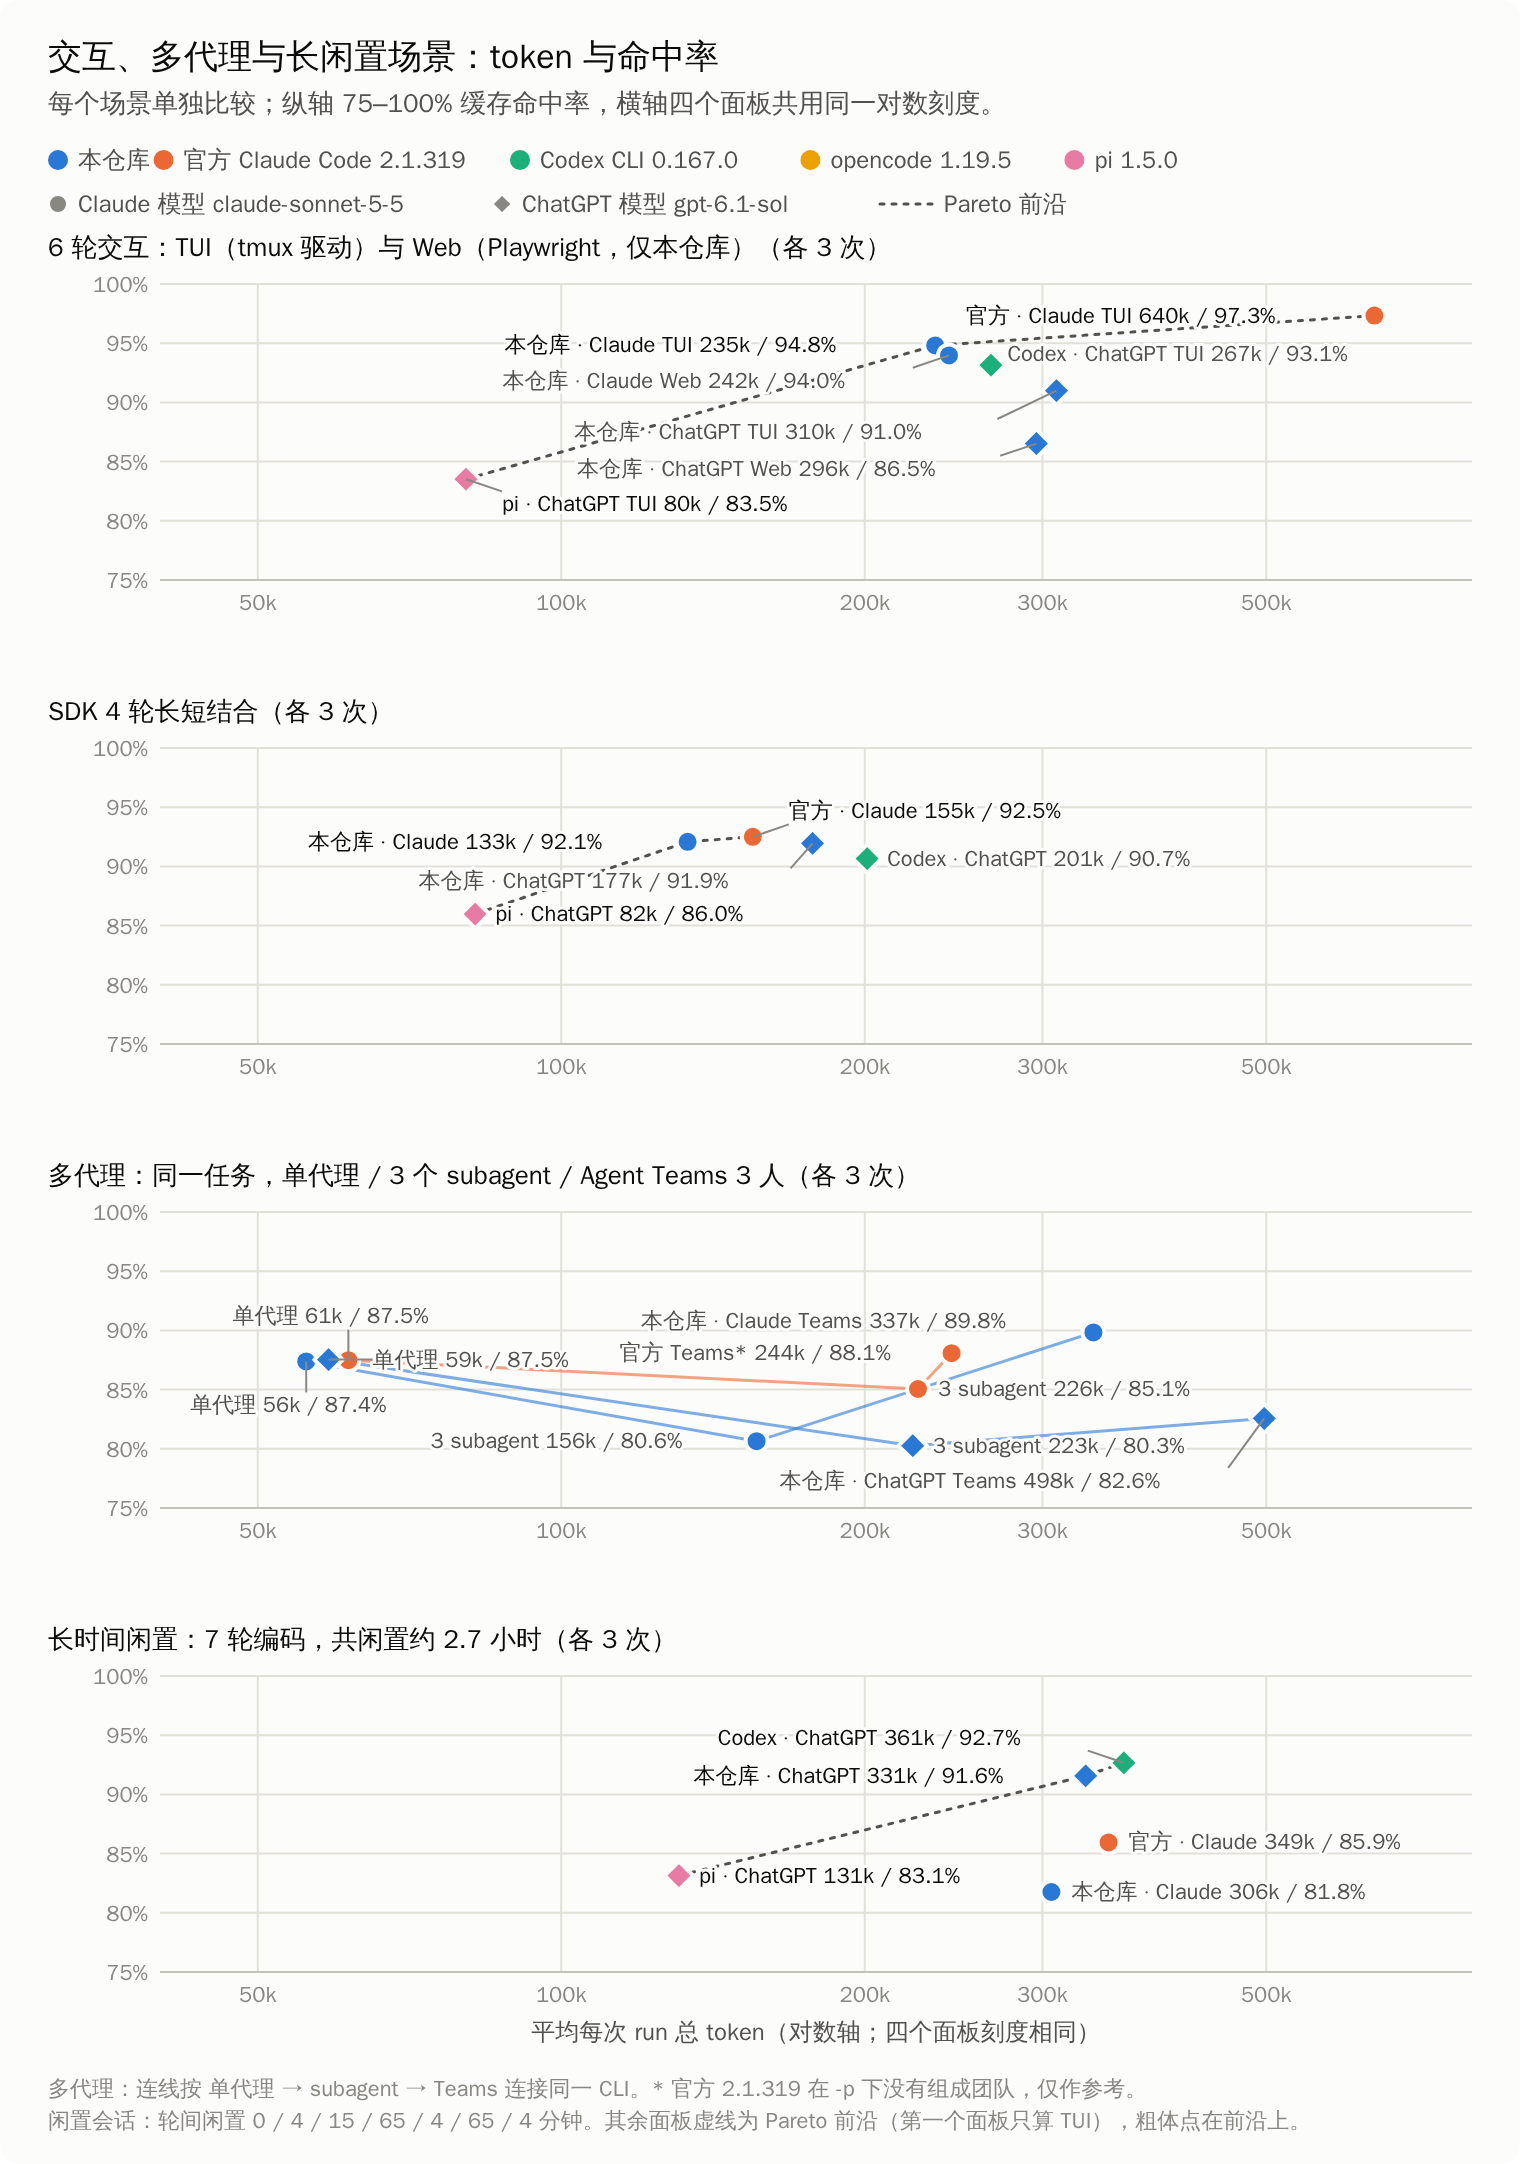
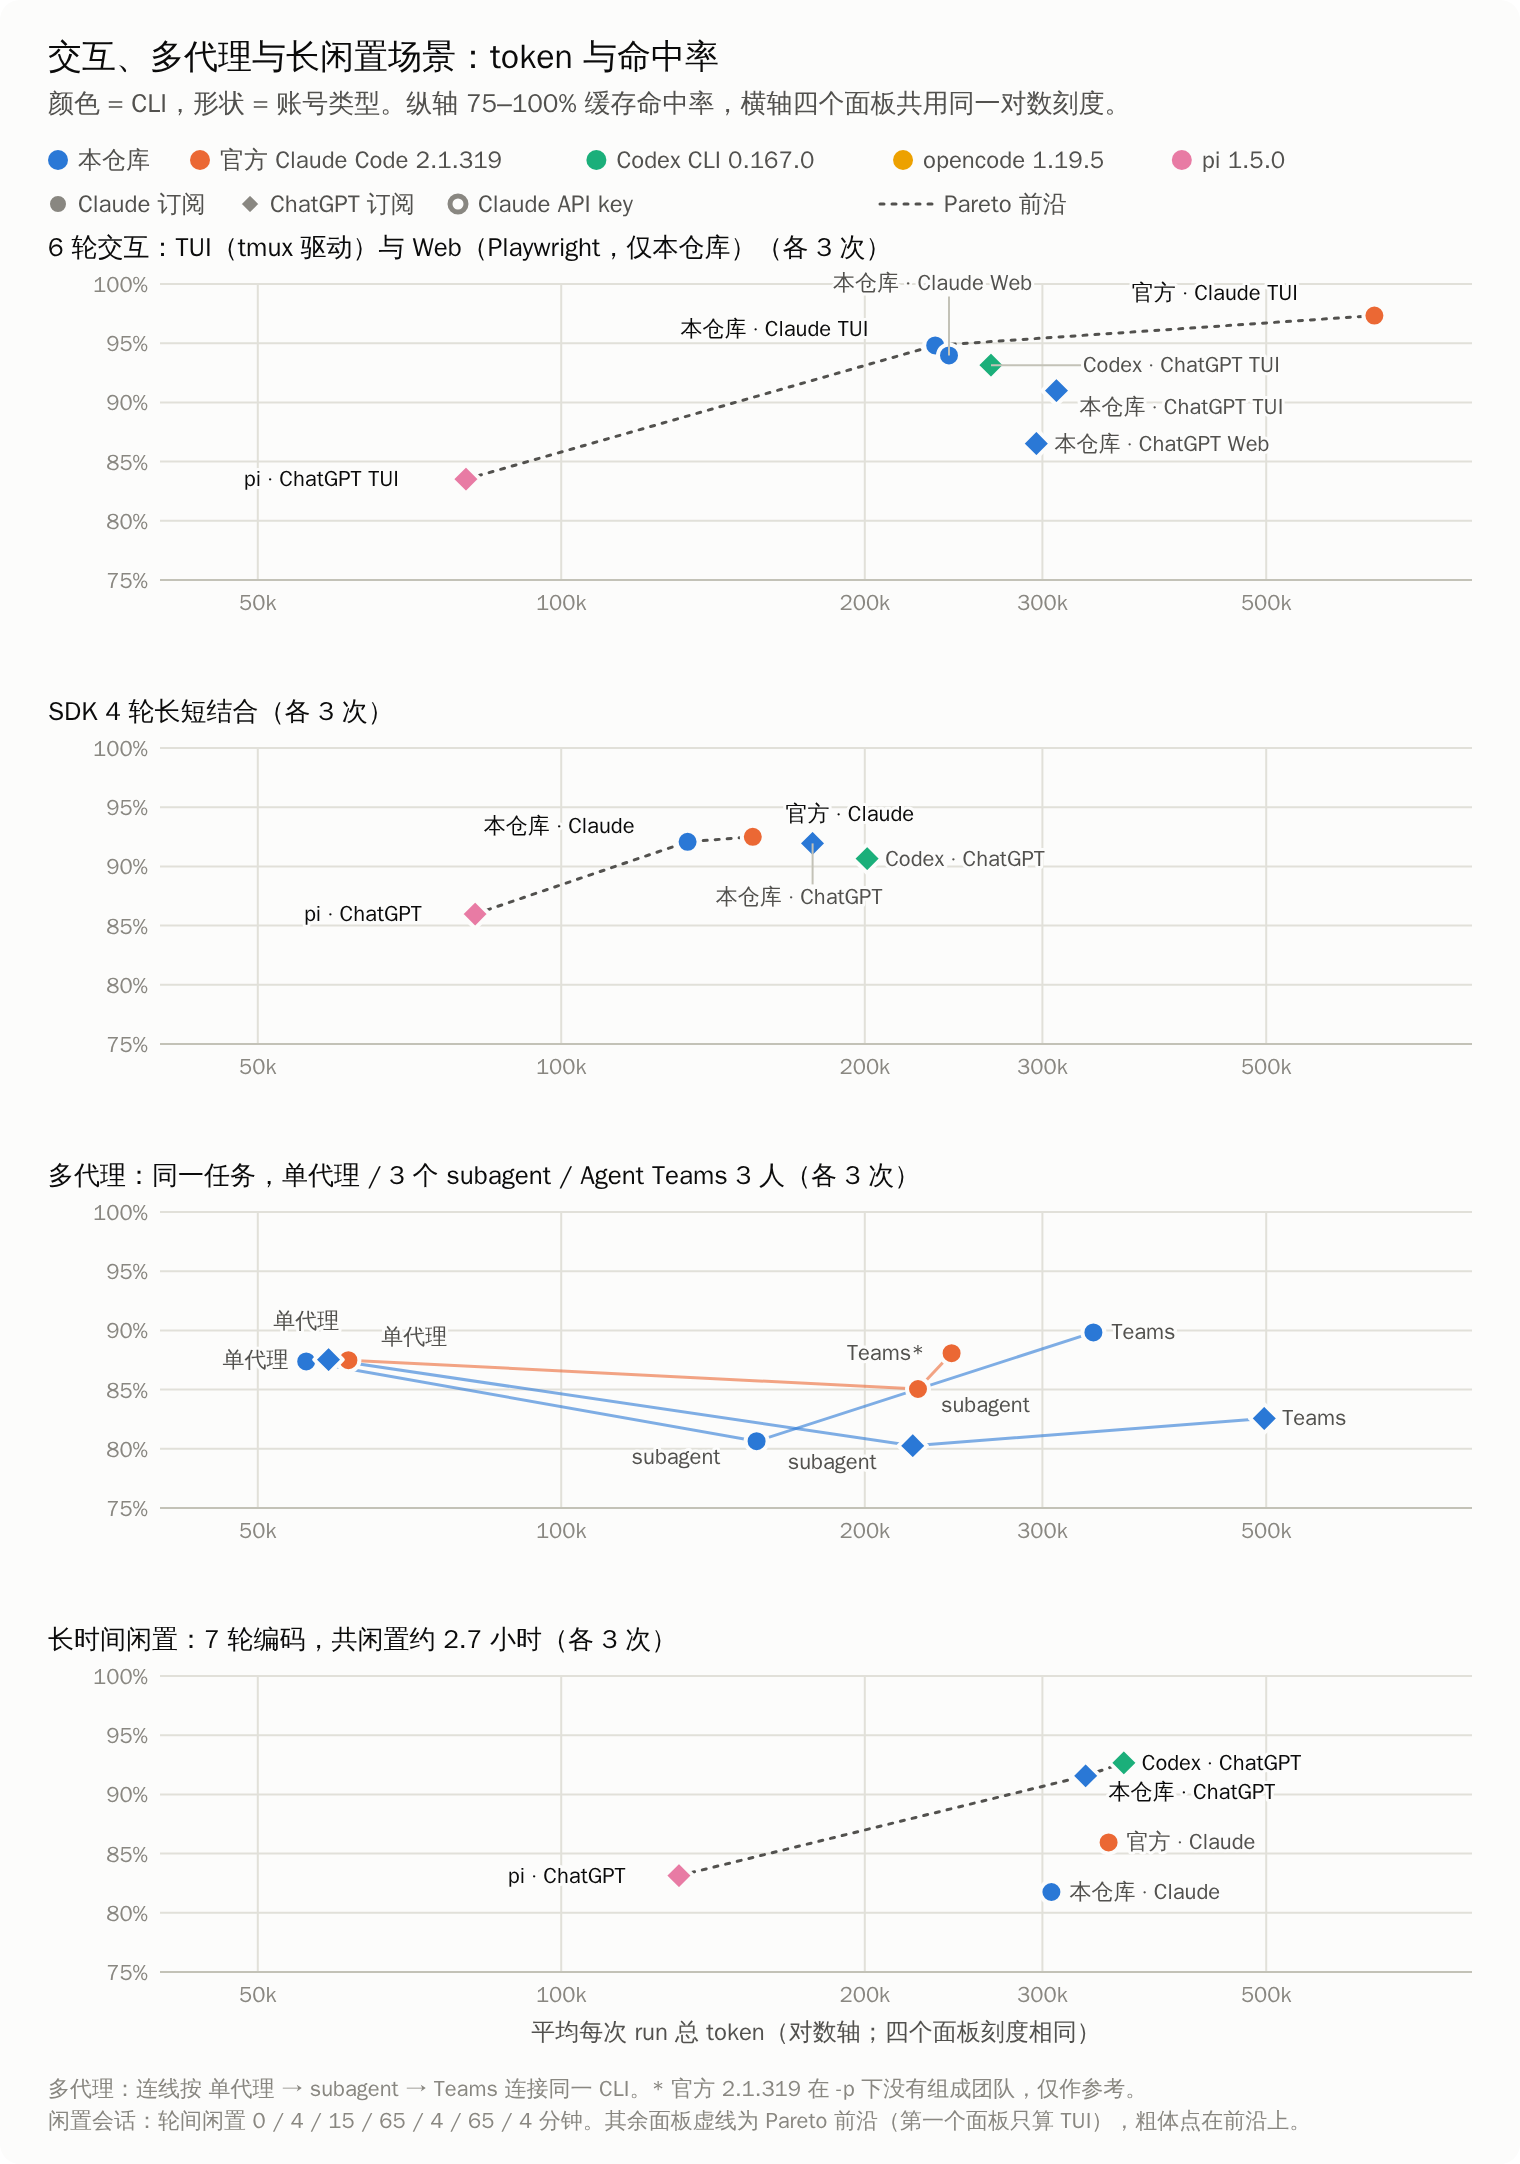
docs(cache-benchmark): short labels, account-type shapes, by-type scatter

diff --git a/docs/features/cache-benchmark.md b/docs/features/cache-benchmark.md
@@ -103,12 +103,21 @@ pi 与 opencode 另用 Claude API key 跑了一组 `claude-sonnet-5-5`（见第 
 
 横轴是每任务平均总 token（对数轴，越左越省），纵轴是按 token 加权的缓存命中率（越高越好），左上角最好。只看命中率会奖励把大段前缀放进缓存的做法，只看 token 又看不出缓存帮了多少，两项放在一起才能看出谁在「少用」和「多复用」上都占优。两种模型的价格表不同，所以横轴用 token，不用花费；Claude 侧的 API 等价花费见第 1 节表格。
 
+颜色区分 CLI，形状区分账号类型：实心圆 = Claude 订阅（OAuth），菱形 = ChatGPT 订阅（OAuth），空心圆 = Claude API key。Claude 订阅与 API key 都用 `claude-sonnet-5-5`，ChatGPT 订阅用 `gpt-6.1-sol`。
+
 ![每任务 token 与缓存命中率：8 个 CLI × 账号的散点，含 5 类任务的分项点、Pareto 前沿与更优区域](images/cache-benchmark/tokens-vs-hit-light.png#gh-light-mode-only)
 ![每任务 token 与缓存命中率：8 个 CLI × 账号的散点，含 5 类任务的分项点、Pareto 前沿与更优区域](images/cache-benchmark/tokens-vs-hit-dark.png#gh-dark-mode-only)
 
 - 前沿上的 5 个点：pi（Claude）21k / 73.4%、pi（ChatGPT）37k / 84.0%、本仓库（Claude）73k / 87.1%、Codex 80k / 88.8%、opencode（ChatGPT）82k / 89.2%。
 - 更优区域（token 不高于中位数且命中率不低于中位数）里是本仓库 Claude 账号、本仓库 ChatGPT 账号（在边界上）和 Codex；官方 81k / 87.3% 被 Codex 在两项上同时略微超过，但差距都在噪声范围内。
 - pi 的提示只有约 2.7k，token 最少但新内容占比大，命中率最低；opencode 在 Claude 模型下 92k / 79.2%，两项都落后于同模型的本仓库与官方。
+
+![按任务类型：每类一个面板的 token 与命中率散点](images/cache-benchmark/tokens-vs-hit-by-type-light.png#gh-light-mode-only)
+![按任务类型：每类一个面板的 token 与命中率散点](images/cache-benchmark/tokens-vs-hit-by-type-dark.png#gh-dark-mode-only)
+
+- 同一 CLI 在不同任务类型之间的位置变化，大于同一类型里 CLI 之间的差距。
+- Claude 订阅（本仓库、官方）在研究、运维、Lean 三类处于前沿或贴近前沿；编码类两者都是 81%，低于 ChatGPT 订阅的 83–91%。
+- Claude API key 的 opencode 在研究、编码、运维、Lean 四类比同模型的 Claude 订阅低 9–18 个百分点；办公类命中率接近，但 token 是 205k。pi 在每一类都是 token 最少的点。
 
 ![交互、多代理与长闲置场景：每个场景一个面板的 token 与命中率散点](images/cache-benchmark/tokens-vs-hit-scenarios-light.png#gh-light-mode-only)
 ![交互、多代理与长闲置场景：每个场景一个面板的 token 与命中率散点](images/cache-benchmark/tokens-vs-hit-scenarios-dark.png#gh-dark-mode-only)
